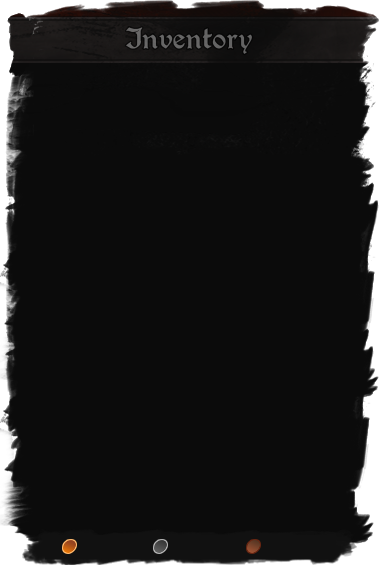
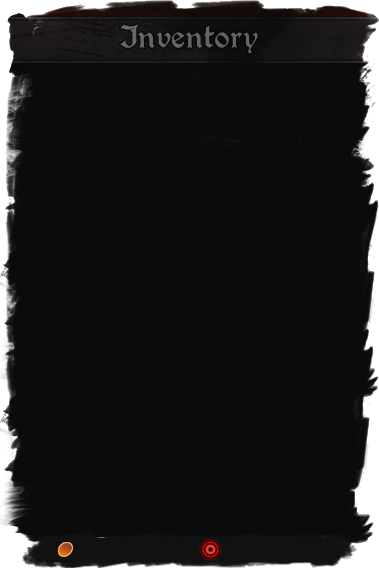
added currencies to inventory + console commands

diff --git a/srcs/gameloop/ingame/ingame_currency.c b/srcs/gameloop/ingame/ingame_currency.c
@@ -1,22 +1,30 @@
 /* ************************************************************************** */
 /*                                                                            */
 /*                                                        :::      ::::::::   */
-/*   config.h                                           :+:      :+:    :+:   */
+/*   ingame_currency.c                                  :+:      :+:    :+:   */
 /*                                                    +:+ +:+         +:+     */
 /*   By: khirsig <khirsig@student.42.fr>            +#+  +:+       +#+        */
 /*                                                +#+#+#+#+#+   +#+           */
-/*   Created: 2022/01/25 17:42:21 by khirsig           #+#    #+#             */
-/*   Updated: 2022/02/18 21:19:41 by khirsig          ###   ########.fr       */
+/*   Created: 2022/02/18 23:56:00 by khirsig           #+#    #+#             */
+/*   Updated: 2022/02/19 00:10:49 by khirsig          ###   ########.fr       */
 /*                                                                            */
 /* ************************************************************************** */
 
-#ifndef DC_CONFIG_H
-# define DC_CONFIG_H
+#include "loop_ingame.h"
+#include <limits.h>
 
-# define SCREEN_WIDTH	1408
-# define SCREEN_HEIGHT	792
-# define SCREEN_FPS		123
-# define SCREEN_FOV		60.0f
-# define SCREEN_TITLE	"dungeonCrawler"
+void	add_gold(t_data *data, int amount)
+{
+	if ((long long)(data->player.gold) + amount > INT_MAX)
+		data->player.gold = INT_MAX;
+	else
+		data->player.gold += amount;
+}
 
-#endif
+void	add_soulgem(t_data *data, int amount)
+{
+	if ((long long)(data->player.soulgem) + amount > INT_MAX)
+		data->player.soulgem = INT_MAX;
+	else
+		data->player.soulgem += amount;
+}

diff --git a/srcs/gameloop/ingame/ingame_console.c b/srcs/gameloop/ingame/ingame_console.c
@@ -6,7 +6,7 @@
 /*   By: khirsig <khirsig@student.42.fr>            +#+  +:+       +#+        */
 /*                                                +#+#+#+#+#+   +#+           */
 /*   Created: 2022/02/18 14:22:01 by khirsig           #+#    #+#             */
-/*   Updated: 2022/02/18 17:59:29 by khirsig          ###   ########.fr       */
+/*   Updated: 2022/02/19 00:04:02 by khirsig          ###   ########.fr       */
 /*                                                                            */
 /* ************************************************************************** */
 
@@ -118,6 +118,16 @@ static void	console_command(t_data *data, char *cmd)
 		add_item_to_inventory(data, ft_atoi(split_cmd[1]), ft_atoi(split_cmd[2]));
 		add_to_history(data, cmd);
 	}
+	if (TextIsEqual(split_cmd[0], "addgold") && split_cmd[1] != NULL)
+	{
+		add_gold(data, ft_atoi(split_cmd[1]));
+		add_to_history(data, cmd);
+	}
+	if (TextIsEqual(split_cmd[0], "addsoulgem") && split_cmd[1] != NULL)
+	{
+		add_soulgem(data, ft_atoi(split_cmd[1]));
+		add_to_history(data, cmd);
+	}
 }
 
 void	console_prompt(t_data *data)
@@ -126,7 +136,6 @@ void	console_prompt(t_data *data)
 	int		enter;
 	int		promptWidth;
 
-	printf("%i\n", data->console.history_save);
 	DrawRectangle(5, 5, 500, 40, BLACK);
 	DrawText(">>", 15, 15, 20, WHITE);
 	key = GetCharPressed();

diff --git a/srcs/gameloop/ingame/ingame_inventory.c b/srcs/gameloop/ingame/ingame_inventory.c
@@ -6,7 +6,7 @@
 /*   By: khirsig <khirsig@student.42.fr>            +#+  +:+       +#+        */
 /*                                                +#+#+#+#+#+   +#+           */
 /*   Created: 2022/02/17 13:03:17 by khirsig           #+#    #+#             */
-/*   Updated: 2022/02/18 21:08:16 by khirsig          ###   ########.fr       */
+/*   Updated: 2022/02/18 23:53:46 by khirsig          ###   ########.fr       */
 /*                                                                            */
 /* ************************************************************************** */
 
@@ -69,6 +69,8 @@ void	inventory_draw(t_data *data)
 	inventory_move(data);
 	DrawTexture(data->player.inv.gui.tex[0], data->player.inv.gui.posX, data->player.inv.gui.posY, WHITE);
 	int incr = data->player.inv.gui.lenCell;
+	DrawTextEx(data->window.font, ft_itoa(data->player.gold), (Vector2){ data->player.inv.gui.posX + data->player.inv.gui.lenX / 9 * 2, data->player.inv.gui.posY + data->player.inv.gui.lenY / 40 * 39 }, incr / 5, 1, GRAY);
+	DrawTextEx(data->window.font, ft_itoa(data->player.soulgem), (Vector2){ data->player.inv.gui.posX + data->player.inv.gui.lenX / 13 * 8, data->player.inv.gui.posY + data->player.inv.gui.lenY / 40 * 39 }, incr / 5, 1, GRAY);
 	int	y = 0;
 	while (y < 7)
 	{

diff --git a/libft/ft_atoi.c b/libft/ft_atoi.c
@@ -6,17 +6,18 @@
 /*   By: khirsig <khirsig@student.42.fr>            +#+  +:+       +#+        */
 /*                                                +#+#+#+#+#+   +#+           */
 /*   Created: 2021/06/17 11:46:49 by khirsig           #+#    #+#             */
-/*   Updated: 2021/11/04 08:11:22 by khirsig          ###   ########.fr       */
+/*   Updated: 2022/02/19 00:07:50 by khirsig          ###   ########.fr       */
 /*                                                                            */
 /* ************************************************************************** */
 
 #include "libft.h"
+#include <limits.h>
 
 int	ft_atoi(const char *str)
 {
 	int		count;
 	int		minus;
-	long	numb;
+	long long	numb;
 
 	minus = 1;
 	while ((*str >= 9 && *str <= 13) || *str == 32)
@@ -32,5 +33,9 @@ int	ft_atoi(const char *str)
 		numb = numb * 10 + str[count] - '0';
 		count++;
 	}
+	if (numb > INT_MAX)
+		numb = INT_MAX;
+	if (numb < INT_MIN)
+		numb = INT_MIN;
 	return ((int)(numb * minus));
 }

diff --git a/srcs/initializer/init_npc.c b/srcs/initializer/init_npc.c
@@ -6,7 +6,7 @@
 /*   By: khirsig <khirsig@student.42.fr>            +#+  +:+       +#+        */
 /*                                                +#+#+#+#+#+   +#+           */
 /*   Created: 2022/01/30 21:55:27 by khirsig           #+#    #+#             */
-/*   Updated: 2022/02/17 13:04:03 by khirsig          ###   ########.fr       */
+/*   Updated: 2022/02/19 00:04:54 by khirsig          ###   ########.fr       */
 /*                                                                            */
 /* ************************************************************************** */
 
@@ -14,7 +14,6 @@
 
 static void	init_breton_woman(t_data *data, int index)
 {
-	printf("HALLO\n");
 	data->npc[index].texture = malloc(sizeof(Texture) * 23);
 	data->npc[index].texture[0] = load_texture("resources/sprites/002_skeleton/0-0.png");
 	data->npc[index].texture[1] = load_texture("resources/sprites/002_skeleton/0-1.png");

diff --git a/srcs/initializer/init_inventory.c b/srcs/initializer/init_inventory.c
@@ -6,7 +6,7 @@
 /*   By: khirsig <khirsig@student.42.fr>            +#+  +:+       +#+        */
 /*                                                +#+#+#+#+#+   +#+           */
 /*   Created: 2022/02/17 13:03:54 by khirsig           #+#    #+#             */
-/*   Updated: 2022/02/18 21:09:09 by khirsig          ###   ########.fr       */
+/*   Updated: 2022/02/18 23:36:27 by khirsig          ###   ########.fr       */
 /*                                                                            */
 /* ************************************************************************** */
 
@@ -57,7 +57,7 @@ static void	init_item(t_data *data, t_item *item, int id, char *name, int type, 
 
 void	init_inventory(t_data *data)
 {
-	double	calc = 565.0 / 379.0;
+	double	calc = 568.0 / 379.0;
 
 	data->player.inv.gui.lenX = data->window.width / 4;
 	data->player.inv.gui.lenY = data->window.width / 4 * calc;

diff --git a/srcs/initializer/init_player.c b/srcs/initializer/init_player.c
@@ -6,7 +6,7 @@
 /*   By: khirsig <khirsig@student.42.fr>            +#+  +:+       +#+        */
 /*                                                +#+#+#+#+#+   +#+           */
 /*   Created: 2021/12/22 12:39:41 by khirsig           #+#    #+#             */
-/*   Updated: 2022/02/16 14:52:09 by khirsig          ###   ########.fr       */
+/*   Updated: 2022/02/18 23:46:04 by khirsig          ###   ########.fr       */
 /*                                                                            */
 /* ************************************************************************** */
 
@@ -63,4 +63,6 @@ void	init_player(t_data *data)
 	data->player.camera.target = (Vector3){ data->player.dirX, data->player.dirZ, data->player.dirY };
 	data->player.camera.up = (Vector3){ 0.0f, 1.0f, 0.0f };
 	data->player.camera.fovy = SCREEN_FOV;
+	data->player.soulgem = 0;
+	data->player.gold = 0;
 }

diff --git a/srcs/main.c b/srcs/main.c
@@ -6,7 +6,7 @@
 /*   By: khirsig <khirsig@student.42.fr>            +#+  +:+       +#+        */
 /*                                                +#+#+#+#+#+   +#+           */
 /*   Created: 2021/12/21 23:06:58 by khirsig           #+#    #+#             */
-/*   Updated: 2021/12/22 13:51:32 by khirsig          ###   ########.fr       */
+/*   Updated: 2022/02/19 00:04:54 by khirsig          ###   ########.fr       */
 /*                                                                            */
 /* ************************************************************************** */
 
@@ -19,11 +19,8 @@ int	main(int argc, char **argv)
 	(void)argc;
 	(void)argv;
 	ft_bzero(&data, sizeof(t_data));
-	printf("PARSER\n");
 	parser(&data, argv[1]);
-	printf("INITIALIZER\n");
 	initializer(&data);
-	printf("GAMELOOP\n");
 	gameloop(&data);
 	CloseWindow();
 	return (0);

diff --git a/srcs/gameloop/ingame/loop_ingame.h b/srcs/gameloop/ingame/loop_ingame.h
@@ -6,7 +6,7 @@
 /*   By: khirsig <khirsig@student.42.fr>            +#+  +:+       +#+        */
 /*                                                +#+#+#+#+#+   +#+           */
 /*   Created: 2021/12/22 12:50:55 by khirsig           #+#    #+#             */
-/*   Updated: 2022/02/18 16:11:15 by khirsig          ###   ########.fr       */
+/*   Updated: 2022/02/18 23:58:13 by khirsig          ###   ########.fr       */
 /*                                                                            */
 /* ************************************************************************** */
 
@@ -24,5 +24,7 @@ void	inventory_draw(t_data *data);
 void	open_console(t_data *data);
 void	console_prompt(t_data *data);
 void	add_item_to_inventory(t_data *data, int id, int amount);
+void	add_soulgem(t_data *data, int amount);
+void	add_gold(t_data *data, int amount);
 
 #endif

diff --git a/srcs/player.h b/srcs/player.h
@@ -6,7 +6,7 @@
 /*   By: khirsig <khirsig@student.42.fr>            +#+  +:+       +#+        */
 /*                                                +#+#+#+#+#+   +#+           */
 /*   Created: 2021/12/22 12:35:34 by khirsig           #+#    #+#             */
-/*   Updated: 2022/02/17 13:03:03 by khirsig          ###   ########.fr       */
+/*   Updated: 2022/02/18 23:45:42 by khirsig          ###   ########.fr       */
 /*                                                                            */
 /* ************************************************************************** */
 
@@ -34,6 +34,8 @@ typedef struct s_player {
 	double	health;
 	double	max_stamina;
 	double	stamina;
+	int		gold;
+	int		soulgem;
 	int		rotate_left;
 	int		rotate_right;
 	int		is_sprinting;
